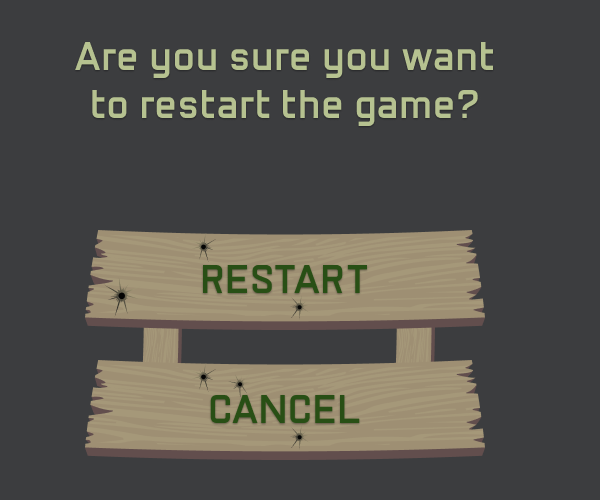
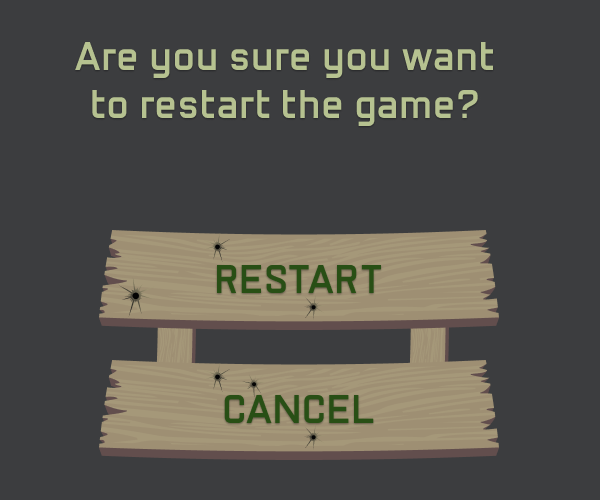
a

diff --git a/Assets/Scripts/Player/SinglePlayer.cs b/Assets/Scripts/Player/SinglePlayer.cs
@@ -55,8 +55,7 @@ public class SinglePlayer : ISP {
     [Command]
     public override void CmdClick()
     {
-        Debug.Log("0");
-        if(nig < 0.3f || c == 0) { return; }
+        if(nig < 0.5f || c == 0) { return; }
         nig = 0;
         c -= 1;
         if (proj_speed <= 0.5f) {
@@ -166,6 +165,15 @@ public class SinglePlayer : ISP {
         Time.timeScale = Time.timeScale == 0 ? 1 : 0;
     }
 
+    public void Alternate0(RectTransform rt) {
+        rt.anchoredPosition = new Vector2(rt.anchoredPosition.x == 0 ? 354.5505f : 0, rt.anchoredPosition.y);
+    }
+
+    public void Alternate1(RectTransform rt) {
+        FindObjectOfType<UIBaseHpManager>().UpdateHp();
+        rt.anchoredPosition = new Vector2(rt.anchoredPosition.x == 150 ? 822.1f : 150, rt.anchoredPosition.y);
+    }
+
     private void Update() {
         if(!isLocalPlayer || Time.timeScale == 0) { return; }
         UpdateEnemyTimer();
@@ -177,16 +185,18 @@ public class SinglePlayer : ISP {
             CmdClick();
         }
         // Camera rotation
-        if(Input.GetAxis("Horizontal") > 0 && cameraHolder.position.x < rightX) {
-            cameraHolder.position = new Vector3(cameraHolder.position.x + Input.GetAxis("Horizontal") * cameraSpeed * Time.deltaTime, cameraHolder.position.y, cameraHolder.position.z);
-        } else if(Input.GetAxis("Horizontal") < 0 && cameraHolder.position.x > leftX) {
-            cameraHolder.position = new Vector3(cameraHolder.position.x + Input.GetAxis("Horizontal") * cameraSpeed * Time.deltaTime, cameraHolder.position.y, cameraHolder.position.z);
-        }
+        if (Input.GetAxis("Horizontal") != 0 || Input.GetAxis("Vertical") != 0) {
+            if(Input.GetAxis("Horizontal") > 0 && cameraHolder.position.x < rightX) {
+                cameraHolder.position = new Vector3(cameraHolder.position.x + Input.GetAxis("Horizontal") * cameraSpeed * Time.deltaTime, cameraHolder.position.y, cameraHolder.position.z);
+            } else if(Input.GetAxis("Horizontal") < 0 && cameraHolder.position.x > leftX) {
+                cameraHolder.position = new Vector3(cameraHolder.position.x + Input.GetAxis("Horizontal") * cameraSpeed * Time.deltaTime, cameraHolder.position.y, cameraHolder.position.z);
+            }
 
-        if(Input.GetAxis("Vertical") > 0 && cameraHolder.position.z < maxForward) {
-            cameraHolder.position = new Vector3(cameraHolder.position.x, cameraHolder.position.y, cameraHolder.position.z + Input.GetAxis("Vertical") * cameraSpeed * Time.deltaTime);
-        } else if(Input.GetAxis("Vertical") < 0 && cameraHolder.position.z > -35) {
-            cameraHolder.position = new Vector3(cameraHolder.position.x, cameraHolder.position.y, cameraHolder.position.z + Input.GetAxis("Vertical") * cameraSpeed * Time.deltaTime);
+            if(Input.GetAxis("Vertical") > 0 && cameraHolder.position.z < maxForward) {
+                cameraHolder.position = new Vector3(cameraHolder.position.x, cameraHolder.position.y, cameraHolder.position.z + Input.GetAxis("Vertical") * cameraSpeed * Time.deltaTime);
+            } else if(Input.GetAxis("Vertical") < 0 && cameraHolder.position.z > -35) {
+                cameraHolder.position = new Vector3(cameraHolder.position.x, cameraHolder.position.y, cameraHolder.position.z + Input.GetAxis("Vertical") * cameraSpeed * Time.deltaTime);
+            }
         }
         
         if (Input.GetMouseButtonDown(0)) {

diff --git a/Assets/Scripts/UI/UIBaseHpManager.cs b/Assets/Scripts/UI/UIBaseHpManager.cs
@@ -15,6 +15,7 @@ public class UIBaseHpManager : NetworkBehaviour {
 
     [SerializeField] private GameObject onWinPanel;
     [SerializeField] private GameObject onLosePanel;
+    [SerializeField] private RectTransform hpParent;
     [SerializeField] private List<TextMeshProUGUI> tmp = new List<TextMeshProUGUI>();
 
     [ClientRpc]
@@ -39,6 +40,8 @@ public class UIBaseHpManager : NetworkBehaviour {
             }
         });
     }
+
+    public void UpdateHp() => hpParent.anchoredPosition = new Vector2(hpParent.anchoredPosition.x == 352 ? 0 : 352, hpParent.anchoredPosition.y);
 
     public void Win() {
         FindObjectOfType<SinglePlayer>().WinCmd();
